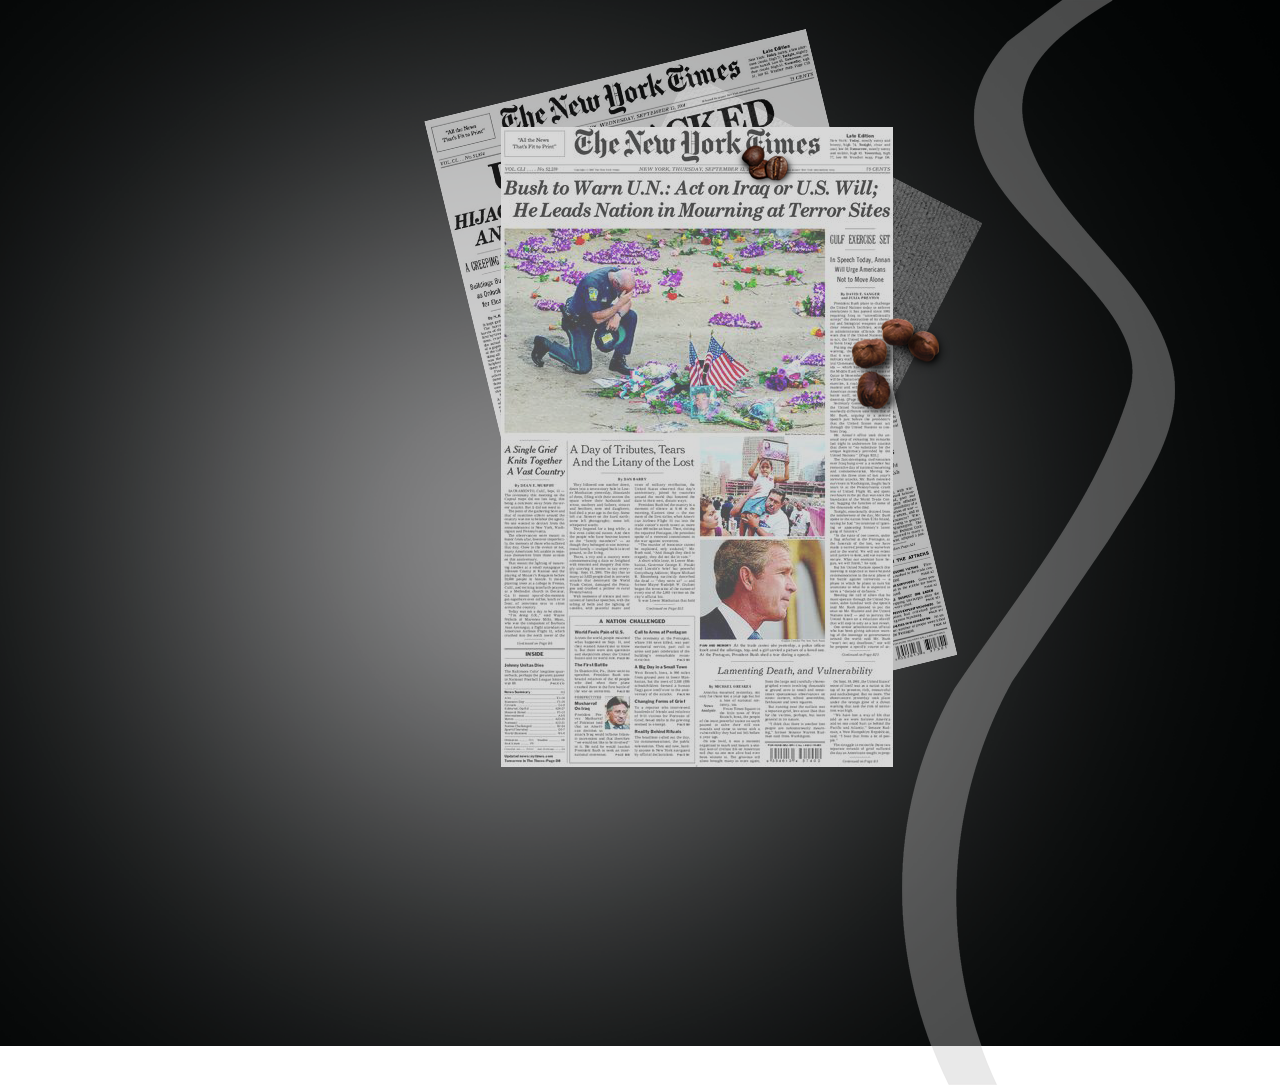
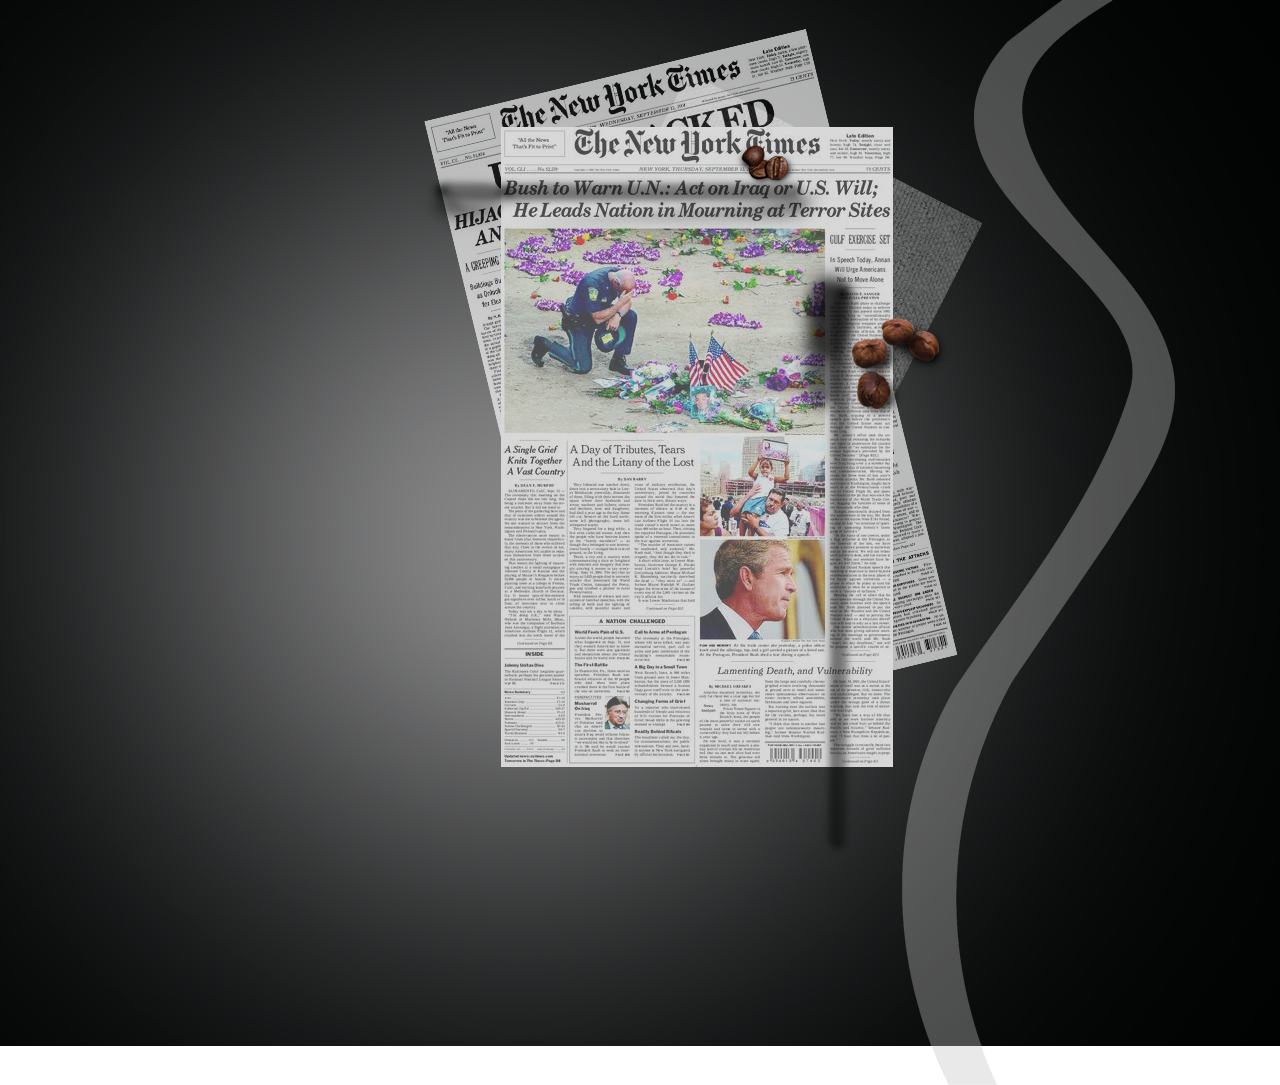
fx
Вроде бэки подогнал. Менюшки везде работают.
Я не знаю как элементы поверх меню горизонтального сделать. Там на паре страниц это есть. Исправь или давай вместе подумаем как сделать. В остальном вроде все.

Changed region(s): [[0.625, 0.2433, 0.6875, 0.6995], [0.3438, 0.1521, 0.6562, 0.2129]]

diff --git a/css/style.css b/css/style.css
@@ -83,10 +83,10 @@ a:link {
 .vert_menu{
 	position: relative;
 	width: 130px;
-	height: 380px;
 	padding-top: 15px;
 	background: radial-gradient(circle closest-corner at 180px 150px, rgba(255, 255, 255, .4), rgba(68,69,69, .4));
-	z-index: 0;
+	z-index: 1;
+	padding-bottom: 40px;
 }
 
 .vert_menu ul{
@@ -250,9 +250,9 @@ a:link {
 	z-index:3;
 }
 .photo_cup{
-	position:relative;
+	position:absolute;
 	z-index:3;
-	top: 311px;
+	top: 700px;
 }
 .photo{
 	max-width: 250px;
@@ -388,34 +388,27 @@ a:link {
 
 
 .test_taste{
-	background: url("/img/Taste/back_taste.png") top -42px center no-repeat;
+	background: url("/img/Taste/back_taste.png") top left 350px no-repeat;
 	background-color: #000202;
-	background-size: 1200px auto; 
-	position: relative;
-	padding: 137px;
-	z-index:-1;
+	background-size: 1200px; 
+	padding-top: 137px;
 }
 
 .cnt3{
 	position: relative;
 	width: 1200px;
 	margin: 0 auto;
-	height: 910px;
 	z-index:5;
+	height: 900px;
+	overflow: hidden;
 }
 
-.bag_taste{
-	position: absolute;
-	max-width: 197px;
-	right: 80px;
-	top:0;
-}
 .cup_taste{
-	position:absolute;
-	max-width: 176px;
-	top: -20px;
-	right: 335px;
-	z-index:3;
+	position: absolute;
+    max-width: 176px;
+    top: -23px;
+    right: 315px;
+    z-index: 5;
 }
 .coffee{
 	position:relative;
@@ -424,14 +417,14 @@ a:link {
 }
 .paper_pensil{
 	position:absolute;
-	top:35px;
-	left:212px;
+	top:25px;
+	left:157px;
 	z-index:2;
 }
 .picture_taste{
 	max-width:370px;
 	position:relative;
-	top: 40px;
+	top: 60px;
 	left: 0px;
 	z-index:1;
 	overflow:hidden;
@@ -465,11 +458,8 @@ a:link {
 .test_sound{
 	background: url("/img/Sound/back_sound.png") top center no-repeat;
 	background-color: #000202;
-	background-size: 1200px auto; 
-	position: relative;
-	padding-top: 140px;
-	margin-top: -140px;
-	z-index:-1;
+	background-size: 1200px; 
+	padding-top: 137px;
 }
 .cnt4{
 	position: relative;
@@ -480,7 +470,7 @@ a:link {
 
 .players{
 	position: absolute;
-	top: 328px;
+	top: 230px;
 	left: -281px;
 }
 #record_player{
@@ -505,7 +495,12 @@ a:link {
 
 
 
-
+.test_intuition{
+	background: url("/img/Intuition/back_intuition.png") top center no-repeat;
+	background-color: #000202;
+	background-size: 1200px; 
+	padding-top: 137px;
+}
 .cnt5{
 	position: relative;
 	width: 1200px;
@@ -554,17 +549,22 @@ a:link {
 
 
 
-
+.test_smell{
+	background: url("/img/Smell/back_smell.png") top center no-repeat;
+	background-color: #000202;
+	background-size: 1200px; 
+	padding-top: 137px;
+}
 .cnt6{
 	position: relative;
 	width: 1200px;
 	margin: 0 auto;
-	height: 910px;
+	height: 970px;
 }
 .flower_smell{
 	position: relative;
 	max-width: 209px;
-	margin: -220px 370px 0 auto;
+	margin: -300px 370px 0 auto;
 	z-index:3;
 }
 .paper_smell{
@@ -588,7 +588,7 @@ a:link {
 	top:-180px;
 	left:0px;
 	overflow:hidden;
-	z-index:1;
+	z-index:0;
 }
 #img_pearls_smell{
 	position: relative;
@@ -642,12 +642,17 @@ h3{
 
 
 
-
+.test_feeling{
+	background: url("/img/Feeling/back_feeling.png") top center no-repeat;
+	background-color: #000202;
+	background-size: 1200px; 
+	padding-top: 137px;
+}
 .cnt7{
 	position: relative;
 	width: 1200px;
 	margin: 0 auto;
-	height: 910px;
+	height: 900px;
 }
 
 .picture_top_feeling{
@@ -669,7 +674,7 @@ h3{
 .paper_feeling{
 	position: absolute;
 	max-width:638px;
-	top:35px;
+	top:25px;
 	right:430px;
 	z-index:1;
 }
@@ -710,7 +715,7 @@ h3{
 	max-width: 320px;
 	display:inline-block;
 	position: absolute;
-	top: 180px;
+	top: 226px;
 	left: 0px;
 	z-index:2;
 	overflow:hidden;
@@ -721,7 +726,12 @@ h3{
 }
 
 
-
+.test_view{
+	background: url("/img/View/back_view.png") top center no-repeat;
+	background-color: #000202;
+	background-size: 1200px; 
+	padding-top: 137px;
+}
 .cnt8{
 	position: relative;
 	width: 1200px;
@@ -737,7 +747,7 @@ h3{
 .photo_view{
 	max-width: 400px;
 	position:absolute;
-	top: 40px;
+	top: 375px;
 	left: 0px;
 	overflow: hidden;
 	z-index:2;

diff --git a/smell.php b/smell.php
@@ -1,7 +1,8 @@
-<?php include ('header.php'); ?>
+<?php include ('header-2.php'); ?>
 <main>
+	<div class="test_smell">
 	<div class="cnt6">
-	<div class="vert_menu">
+		<div class="vert_menu">
 			<ul>
 				<li><a href="index.php">Главная</a></li>
 				<li><a href="view.php">Взгляд</a></li>
@@ -11,14 +12,6 @@
 				<li><a href="smell.php">Запах</a></li>
 				<li><a href="intuition.php">Интуиция</a></li>
 			</ul>
-		</div>
-		<div class="bag_taste">
-			<div id="hook">
-				<img src="img/Main/hook.png" alt="">
-			</div>
-			<div id="bag_el">
-				<img src="img/Main/bag.png" alt="">
-			</div>
 		</div>
 		<div class="flower_smell">
 			<img src="img/Smell/flower.png" alt="">
@@ -61,6 +54,7 @@
 		<div class="pearls_smell">
 			<img id="img_pearls_smell" src="img/Smell/pearl2.png" alt="">
 		</div>
+	</div>
 	</div>
 </main>
 <?php include ('footer.php'); ?>

diff --git a/view.php b/view.php
@@ -1,5 +1,6 @@
-<?php include ('header.php'); ?>
+<?php include ('header-2.php'); ?>
 <main>
+	<div class="test_view">
 	<div class="cnt8">
 		<div class="vert_menu">
 			<ul>
@@ -12,20 +13,13 @@
 				<li><a href="intuition.php">Интуиция</a></li>
 			</ul>
 		</div>
-		<div class="bag_taste">
-			<div id="hook">
-				<img src="img/Main/hook.png" alt="">
-			</div>
-			<div id="bag_el">
-				<img src="img/Main/bag.png" alt="">
-			</div>
-		</div>
 		<div class="pipe_view">
 			<img id="img_pipe_view" src="img/View/pipe.png" alt="">
 		</div>
 		<div class="photo_view">
-			<img id="img_photo_view" src="img/View/photo.png" alt="">
+			<img id="img_photo_view" src="img/View/photo2.png" alt="">
 		</div>
+	</div>
 	</div>
 </main>
 <?php include ('footer.php'); ?>

diff --git a/feeling.php b/feeling.php
@@ -1,5 +1,6 @@
-<?php include ('header.php'); ?>
+<?php include ('header-2.php'); ?>
 <main>
+	<div class="test_feeling">
 	<div class="cnt7">
 		<div class="vert_menu">
 			<ul>
@@ -11,14 +12,6 @@
 				<li><a href="smell.php">Запах</a></li>
 				<li><a href="intuition.php">Интуиция</a></li>
 			</ul>
-		</div>
-		<div class="bag_taste">
-			<div id="hook">
-				<img src="img/Main/hook.png" alt="">
-			</div>
-			<div id="bag_el">
-				<img src="img/Main/bag.png" alt="">
-			</div>
 		</div>
 		<div class="picture_top_feeling">
 			<img src="img/Feeling/picture_top.png" alt="">
@@ -70,6 +63,7 @@
 		<div class="colors">
 			<img id="img_colors" src="img/Feeling/colors2.png" alt="">
 		</div>
+	</div>
 	</div>
 </main>
 <?php include ('footer.php'); ?>

diff --git a/intuition.php b/intuition.php
@@ -1,5 +1,6 @@
-<?php include ('header.php'); ?>
+<?php include ('header-2.php'); ?>
 <main>
+	<div class="test_intuition">
 	<div class="cnt5">
 		<div class="vert_menu">
 			<ul>
@@ -11,14 +12,6 @@
 				<li><a href="smell.php">Запах</a></li>
 				<li><a href="intuition.php">Интуиция</a></li>
 			</ul>
-		</div>
-		<div class="bag_taste">
-			<div id="hook">
-				<img src="img/Main/hook.png" alt="">
-			</div>
-			<div id="bag_el">
-				<img src="img/Main/bag.png" alt="">
-			</div>
 		</div>
 		<div class="zoom">
 			<img src="img/Intuition/zoom.png" alt="">
@@ -32,6 +25,7 @@
 		<div class="map_intuition">
 			<img id="img_map_intuition" src="img/Intuition/map.png" alt="">
 		</div>
+	</div>
 	</div>
 </main>
 <?php include ('footer.php'); ?>

diff --git a/sound.php b/sound.php
@@ -1,4 +1,4 @@
-<?php include ('header.php'); ?>
+<?php include ('header-2.php'); ?>
 <main>
 	<div class="test_sound">
 	<div class="cnt4">
@@ -12,14 +12,6 @@
 				<li><a href="smell.php">Запах</a></li>
 				<li><a href="intuition.php">Интуиция</a></li>
 			</ul>
-		</div>
-		<div class="bag_taste">
-			<div id="hook">
-				<img src="img/Main/hook.png" alt="">
-			</div>
-			<div id="bag_el">
-				<img src="img/Main/bag.png" alt="">
-			</div>
 		</div>
 		<div class="players">
 			<div id="record_player">
